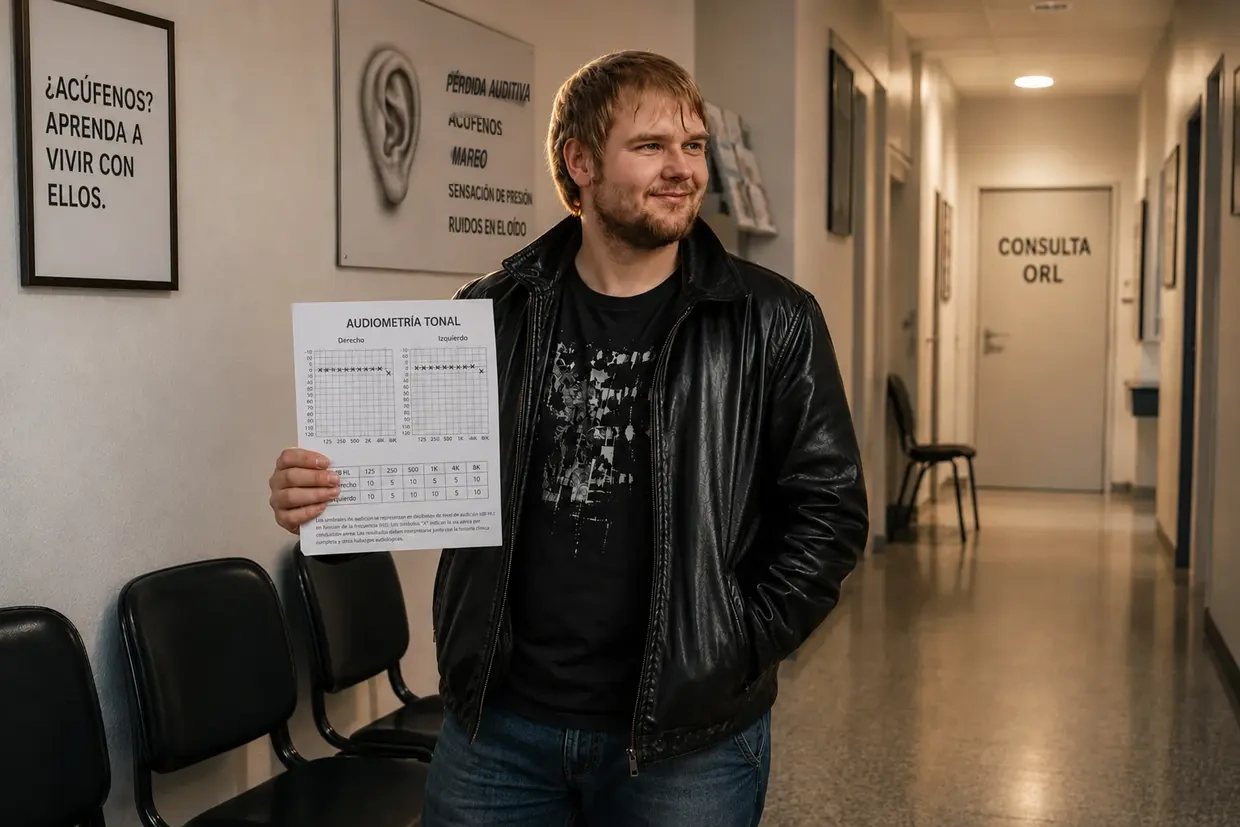
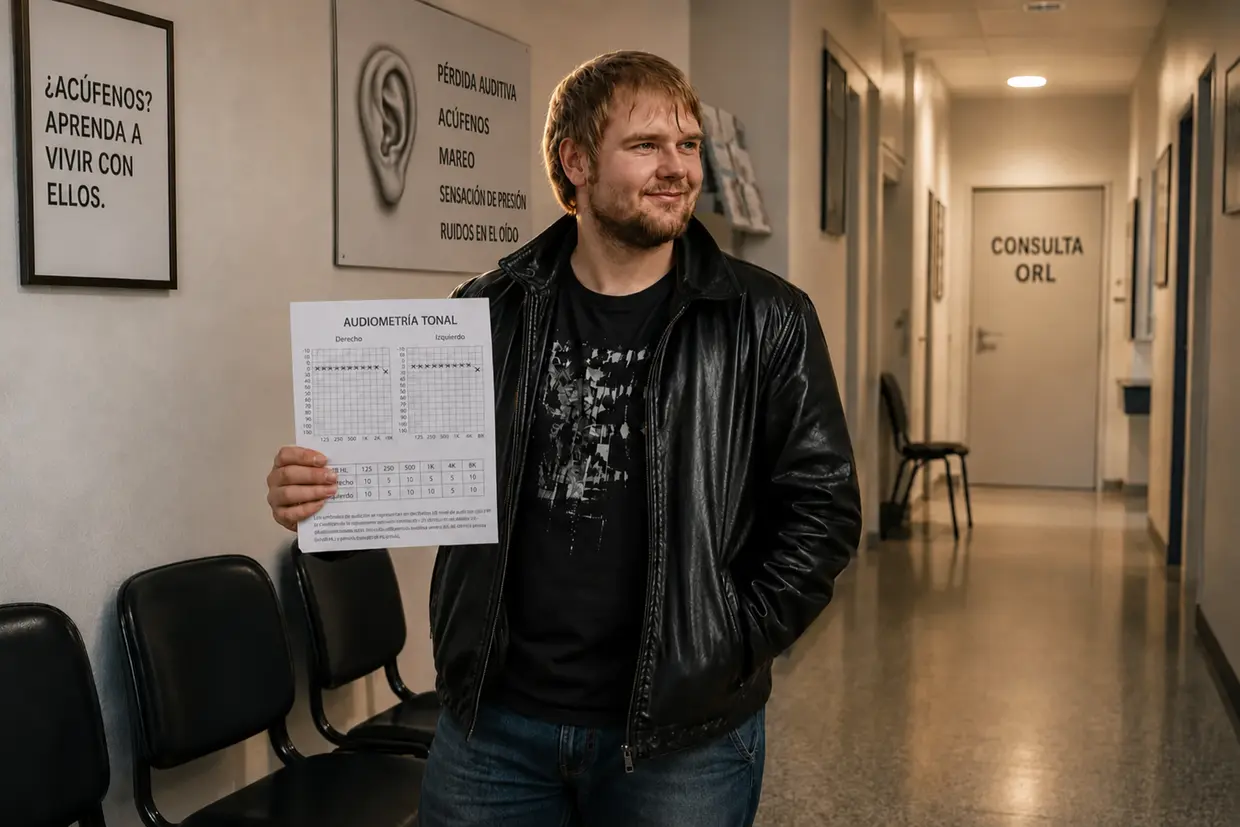
Fix remaining Spanish biography and image issues

diff --git a/es/mi-historia-parte-2.html b/es/mi-historia-parte-2.html
@@ -296,7 +296,7 @@
   </aside>
   <p>Pero ¿cómo pudieron los acúfenos volver a subir, en aquellas circunstancias, hasta un brutal 75 % de la intensidad de mi primerísimo episodio de acúfenos? Gracias a mi protocolo de FitLine, yo había construido un escudo protector masivo, con el ATP al 200 %. La respuesta es un cálculo frío como el hielo: desmonté ese escudo de forma totalmente deliberada.</p>
   <p>Cuando los acúfenos del oído izquierdo reaparecieron al principio de manera apenas perceptible y difusa, noté que mi sistema plenamente cargado empezaba a combatirlos de inmediato. Los nutrientes mantenían el daño en un nivel extremadamente bajo. Pero eso era precisamente lo que no quería para mi experimento definitivo. Si pretendía demostrar que mi protocolo podía reparar unos acúfenos graves «sobre la marcha» (en plena vida cotidiana), primero los acúfenos tenían que volver a crecer hasta un nivel serio e indiscutible.</p>
-  <p>Así que tomé una decisión absolutamente demencial, pero sumamente consciente: entré en una suspensión total de nutrientes (abstinencia). Dejé de tomar todo el set de FitLine. También eliminé por completo la lecitina, que ya conocía de la época del primer episodio de acúfenos (parte 1 de mi biografía) y que, en mi modelo explicativo de entonces, consideraba el fundamento absoluto de la vaina de mielina.</p>
+  <p>Así que tomé una decisión absolutamente demencial, pero sumamente consciente: entré en una suspensión total de nutrientes (abstinencia). Dejé de tomar todo el set de FitLine. También eliminé por completo la lecitina, que ya conocía y utilizaba desde la época de mi primer episodio de acúfenos (parte 1 de mi biografía) como mi fundamento absoluto para la vaina de mielina.</p>
   <p>En medio del experimento con ruido privé deliberadamente a la célula de sus principales factores de sinergia y materiales de construcción. Quería criar literalmente al «monstruo» para impedir que los productos suprimieran los acúfenos antes de que alcanzaran siquiera el nivel que yo necesitaba para mi prueba. Era la prueba extrema definitiva y arriesgada, sin red ni colchón de seguridad.</p>
 
   <h2 class="section-title" id="absturz-75">El colapso definitivo: el 75 % y el caos sonoro</h2>
@@ -366,7 +366,7 @@
 
   <h2 class="section-title">Unas palabras breves y sinceras para terminar (Hablemos claro)</h2>
   <p>Sé perfectamente cómo debe de sonar toda esta historia de enfermedad y curación para alguien que la ve desde fuera. Si no lo hubiera vivido en carne propia —la cascada de «casualidades» absurdas, la rebelión inicial contra el otorrinolaringólogo, la caída hasta el fondo del SFC, las terapias fallidas que me costaron 6800 euros y, por último, aquel momento de «Matrix» en el que el algoritmo de YouTube me plantó en la pantalla, en mi hora más oscura, al naturópata que estaba a solo 30 kilómetros y que acabaría salvándome—, probablemente yo mismo lo descartaría como un guion barato de Hollywood o un cuento inventado. Suena sencillamente demasiado loco para ser verdad.</p>
-  <p>Precisamente por eso pongo aquí todas mis cartas sobre la mesa. No es una historia de curación inventada, ni un truco de marketing ni, desde luego, esoterismo sin fundamento. Es una verdad física y celular, fría como el hielo. Pongo abiertamente sobre la mesa las pruebas físicas disponibles: los audiogramas médicos con las caídas en determinadas frecuencias documentan exclusivamente mi primer episodio de acúfenos; no existe ningún audiograma del segundo. A ellos se suman los informes de laboratorio, los diagnósticos y las facturas de clínicas y terapeutas.</p>
+  <p>Precisamente por eso pongo aquí todas mis cartas sobre la mesa. No es una historia de curación inventada, ni un truco de marketing ni, desde luego, esoterismo sin fundamento. Es una verdad física y celular, fría como el hielo. Tengo en mi poder todas y cada una de las pruebas físicas de este infierno y de esta curación: mis audiogramas médicos con las masivas caídas de frecuencia, los informes de laboratorio, los diagnósticos y las facturas de las clínicas y los terapeutas.</p>
   <p>No te cuento todo esto para entretenerte. Lo cuento porque encontré para mí una salida de este sistema y porque espero que este conocimiento también pueda ayudarte con tu audición y con tus noches.</p>
 
   <div class="callout">

diff --git a/es/mi-historia-con-los-acufenos.html b/es/mi-historia-con-los-acufenos.html
@@ -337,7 +337,7 @@
   <p>Al igual que durante mi primer episodio de acúfenos, las horas de la mañana eran el indicador decisivo. Era como si un regulador se desplazara cada vez más hacia la línea cero. Hacia el final del tercer mes, el tono se había vuelto tan bajo por la noche que solo podía percibirlo si llevaba tapones para los oídos en una habitación completamente silenciosa o si estaba sentado en un baño totalmente silencioso.</p>
   <p>Para dar el asunto por cerrado de una vez por todas, volví a conseguir unas gotas especiales de vitamina B12, que me aplicaba cada día directamente debajo de la lengua para darle al sistema, a través de la mucosa oral, el ultimísimo empujón.</p>
   <p>Y entonces, en algún momento durante las semanas siguientes, había desaparecido del todo. Desapareció. Por completo. Al 100 %.</p>
-  <p>Había superado la prueba de estrés definitiva y más peligrosa de mi vida. Ahora lo sabía con una certeza fría como el hielo y absoluta: la curación de los acúfenos provocados por ruido no es fruto del azar, la suerte ni un destino místico. Para mí, era el resultado lógico e inevitable de haberle dado a mi célula exactamente lo que necesitaba para repararse a sí misma, incluso mientras llevaba una vida cotidiana normal.</p>
+  <p>Había superado la prueba extrema definitiva y más peligrosa de mi vida. Ahora lo sabía con una certeza fría como el hielo y absoluta: la curación de los acúfenos provocados por ruido no es fruto del azar, la suerte ni un destino místico. Para mí, era el resultado lógico e inevitable de haberle dado a mi célula exactamente lo que necesitaba para repararse a sí misma, incluso mientras llevaba una vida cotidiana normal.</p>
 
   <h2 class="section-title" id="real-talk">Unas palabras breves y sinceras para terminar (Real-Talk)</h2>
   <aside class="margin-note">
